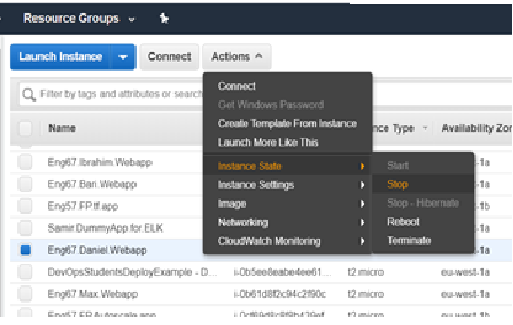
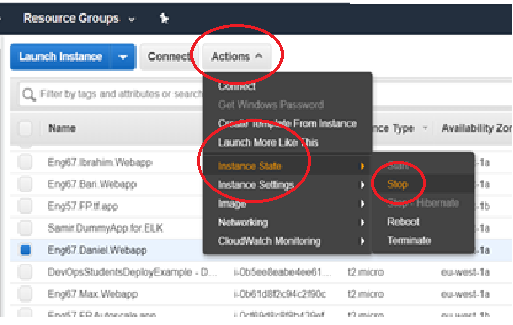
Final touches of read me. Adding stoping the VM image

diff --git a/README.md b/README.md
@@ -100,6 +100,8 @@ This provisions file automates th installation, configuration and upgrading of N
 #### I will be using the scp command. but what is scp?
 Secure copy protocol (SCP) is a means of securely transferring computer files between a local host and a remote host or between two remote hosts. It is based on the Secure Shell (SSH) protocol. 
 
+### The below commands are typed into the OS
+
 To sync directorys from your OS to your VM you mut know the VMs IP adress and the directory name of which you want to sync. use the following command:
 
 ``` scp -i ~/.ssh/DevOpsStudents.pem -r app/ ubuntu@52.48.95.163:~/app/ ```
@@ -125,6 +127,11 @@ The webpage is available through the e2 instances IP adress using the port 3000
 
 The second webpage is also available
 
+# Stopping the Instance
+
+### Actions > Instance status > Stop
+
+![EC4](images/EC3.png)
 
 
 
